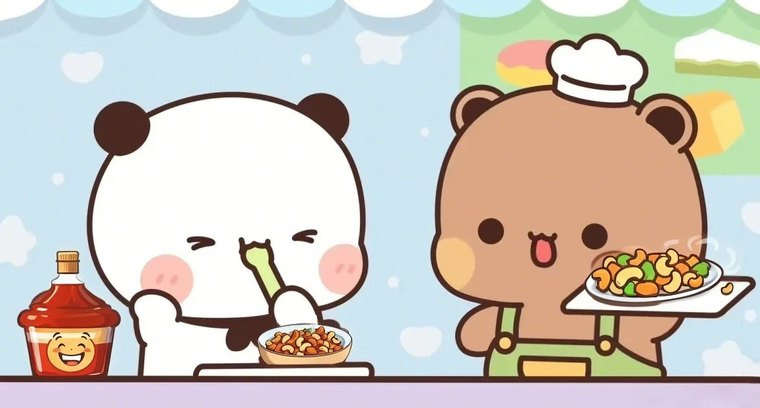
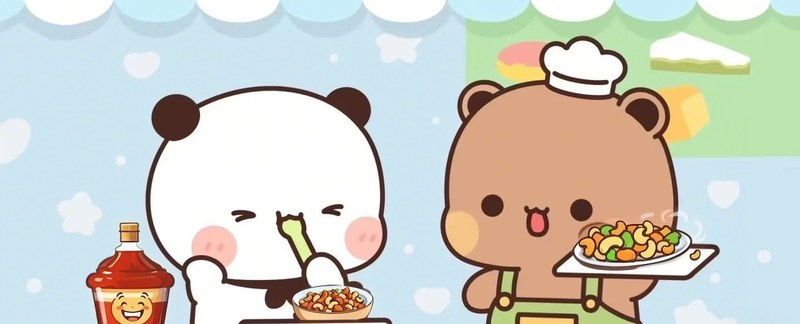
fix: 空态插画改用 <image> 组件（WXSS 不支持本地背景图）+ 卡片尺寸与文字位置还原
两个问题：
1. 图片完全没出来 —— 上一版用 CSS background-image 引本地路径，
   而小程序 WXSS 只支持网络图片/base64，本地路径会被静默忽略（不报错，极难查）。
   改用 <image mode="aspectFill"> 绝对定位铺满。
2. 卡片被撑大（height:560rpx，原来是内容自适应的 ~281rpx）。
   现在恢复内容自适应：padding 152rpx 28rpx 44rpx
   （上内边距 152 = 原「碗图标96 + 间距12 + 上内边距44」，故标题 y 坐标与原来完全一致）；
   .hero-t/.hero-s 字号间距原样；去掉碗图标（插画本身已有碗与主角，重复），
   靠 padding-top 补位，文字位置零变化；边框 dashed -> solid。

插画按卡片比例 2.47 重裁（原图 1440x583 -> 800x324 JPEG q88 = 39KB），
aspectFill 铺满几乎不裁，熊猫与布布（含厨师帽）完整。
新增 --hero-veil 渐隐（app.wxss 四个主题块）：上半部全透（人物头部清晰）、
48% 起升到 62%、60% 后维持 78%（文字区始终可读）；深色同曲线压墨绿。

自检：24 JS + 16 JSON + 12 WXML + 13 WXSS 全部通过

diff --git a/docs/dev-notes/2026-10-08.md b/docs/dev-notes/2026-10-08.md
@@ -586,3 +586,69 @@ placeholder 用真实例子（「1 番茄去皮切块，鸡蛋打散…」），
   仅限家庭内部使用；若要对外发布建议换成自制素材。
 
 **顺手**：删掉原来空态的 `.dash*`（碗图标 + 虚框）样式与 `--hero-veil` 这个没用上的变量。
+
+---
+
+## 修复 · 空态插画「图片没出来」+ 区域变大（真机反馈）
+
+用户反馈两点：① 插画完全没显示，卡片一片空白；② 卡片被撑大了。
+
+### ① 图片没出来的真正原因（**重要，会再踩**）
+
+上一版写的是 CSS 背景图：
+
+```css
+.hero { background-image: url('/assets/hero/couple.jpg'); background-size: 100% auto; }
+```
+
+**小程序 WXSS 的 `background-image` 不支持本地路径**（微信的既有约束：只能用网络图片或 base64
+data URI），写了不会报错，只是被**静默忽略** —— 表现就是「图片没出来」，非常难查。
+
+**修法**：改用 `<image>` 组件 + 绝对定位铺满：
+
+```html
+<view class="hero">
+  <image class="hero-bg" src="/assets/hero/couple.jpg" mode="aspectFill"/>
+  ...
+</view>
+```
+
+```css
+.hero { position: relative; overflow: hidden; }
+.hero-bg { position: absolute; left:0; top:0; width:100%; height:100%; z-index:0; }
+```
+
+（<image> 组件**支持**本地路径，微信打包时会一起带上。）
+
+### ② 卡片尺寸与文字位置还原
+
+上一版把高度写死成 `height: 560rpx`，比原来的 ~281rpx 高了一倍，用户不接受。
+
+现在的做法是**只换背景，其余一点不动**：
+- 卡片恢复成「内容自适应」：`padding: 152rpx 28rpx 44rpx`
+  （上内边距 152rpx = 原来「碗图标 96 + 间距 12 + 上内边距 44」，所以标题 y 坐标与原来完全一致）。
+- `.hero-t`/`.hero-s` 的字号、间距原样：`30rpx/700` + `25rpx`、`margin-top: 8rpx`。
+- 碗图标去掉了 —— 插画里本来就有碗、有食物、有两位主角，再叠一个线性碗图标既重复又杂乱。
+  去掉后靠 `padding-top` 补位，所以**文字的垂直位置没有任何变化**。
+- 边框由 `dashed` 改 `solid`（虚线框放在有插画的卡片上像「占位框」）。
+
+### ③ 插画按卡片比例重新裁
+
+卡片比例 = 694rpx 宽 ÷ 281rpx 高 = **2.47**。上一版插画是 1.86，`cover` 会左右各裁 ~10%，
+正好切到熊猫和布布的身体。这次改成：
+
+- 用 Pillow 从原图 `(0, 105, 1440, 688)` 裁出 **1440×583（比例 2.47，与卡片一致）**，
+  缩到 800×324、JPEG q88 → **39KB**（`assets/hero/couple.jpg`）。
+- 比例一致 → `aspectFill` 铺满时**几乎不裁**，熊猫（一二）和布布（含厨师帽）都完整。
+
+### ④ 文字与插画共存的取舍
+
+文字位于卡片下半部（54%~86%），那里正好是两位主角的身体/托盘，所以：
+
+- 加了 `--hero-veil` 渐隐层（app.wxss 四个主题块）：**上半部 0%→几乎全透**（人物头部完全露出来），
+  **到 48% 升到 62%、60% 之后维持 78%**（文字区足够实，黑字在任何底色上都读得清）。
+- 深色主题同一曲线改压墨绿（`rgba(46,100,89,…)`），避免浅蓝插画在墨绿卡片上跳出来。
+- 用无头 Chrome 按真实尺寸（347×140.5 CSS px @2.2x）渲染浅/深两版核对过。
+
+**教训**：小程序里放本地图片，**一律用 `<image>` 组件**；WXSS 的 `background-image`
+只认网络地址和 base64。这条要记死。
